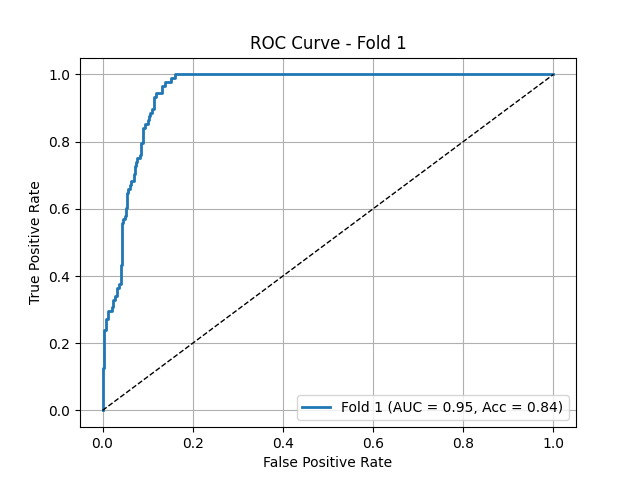
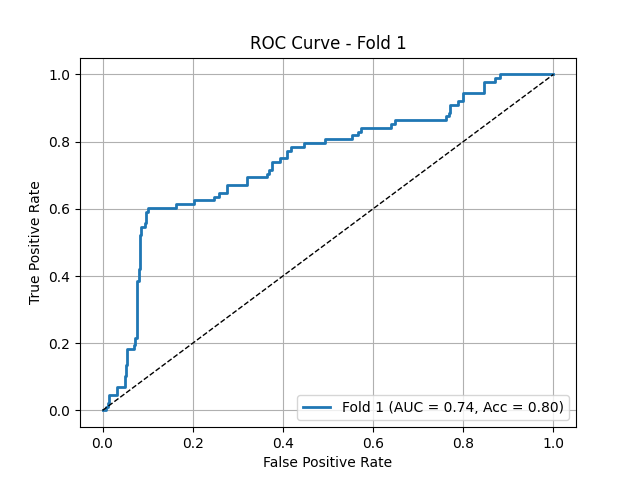
training model for pretrained weight

diff --git a/train_so2_thb_with_rad.py b/train_so2_thb_with_rad.py
@@ -20,7 +20,7 @@ SEED = 42
 np.random.seed(SEED); torch.manual_seed(SEED); random.seed(SEED)
 
 # Settings
-max_epochs = 1 #00
+max_epochs = 100
 batch_size = 16
 k_fold = 5
 device = torch.device("cuda" if torch.cuda.is_available() else "cpu")
